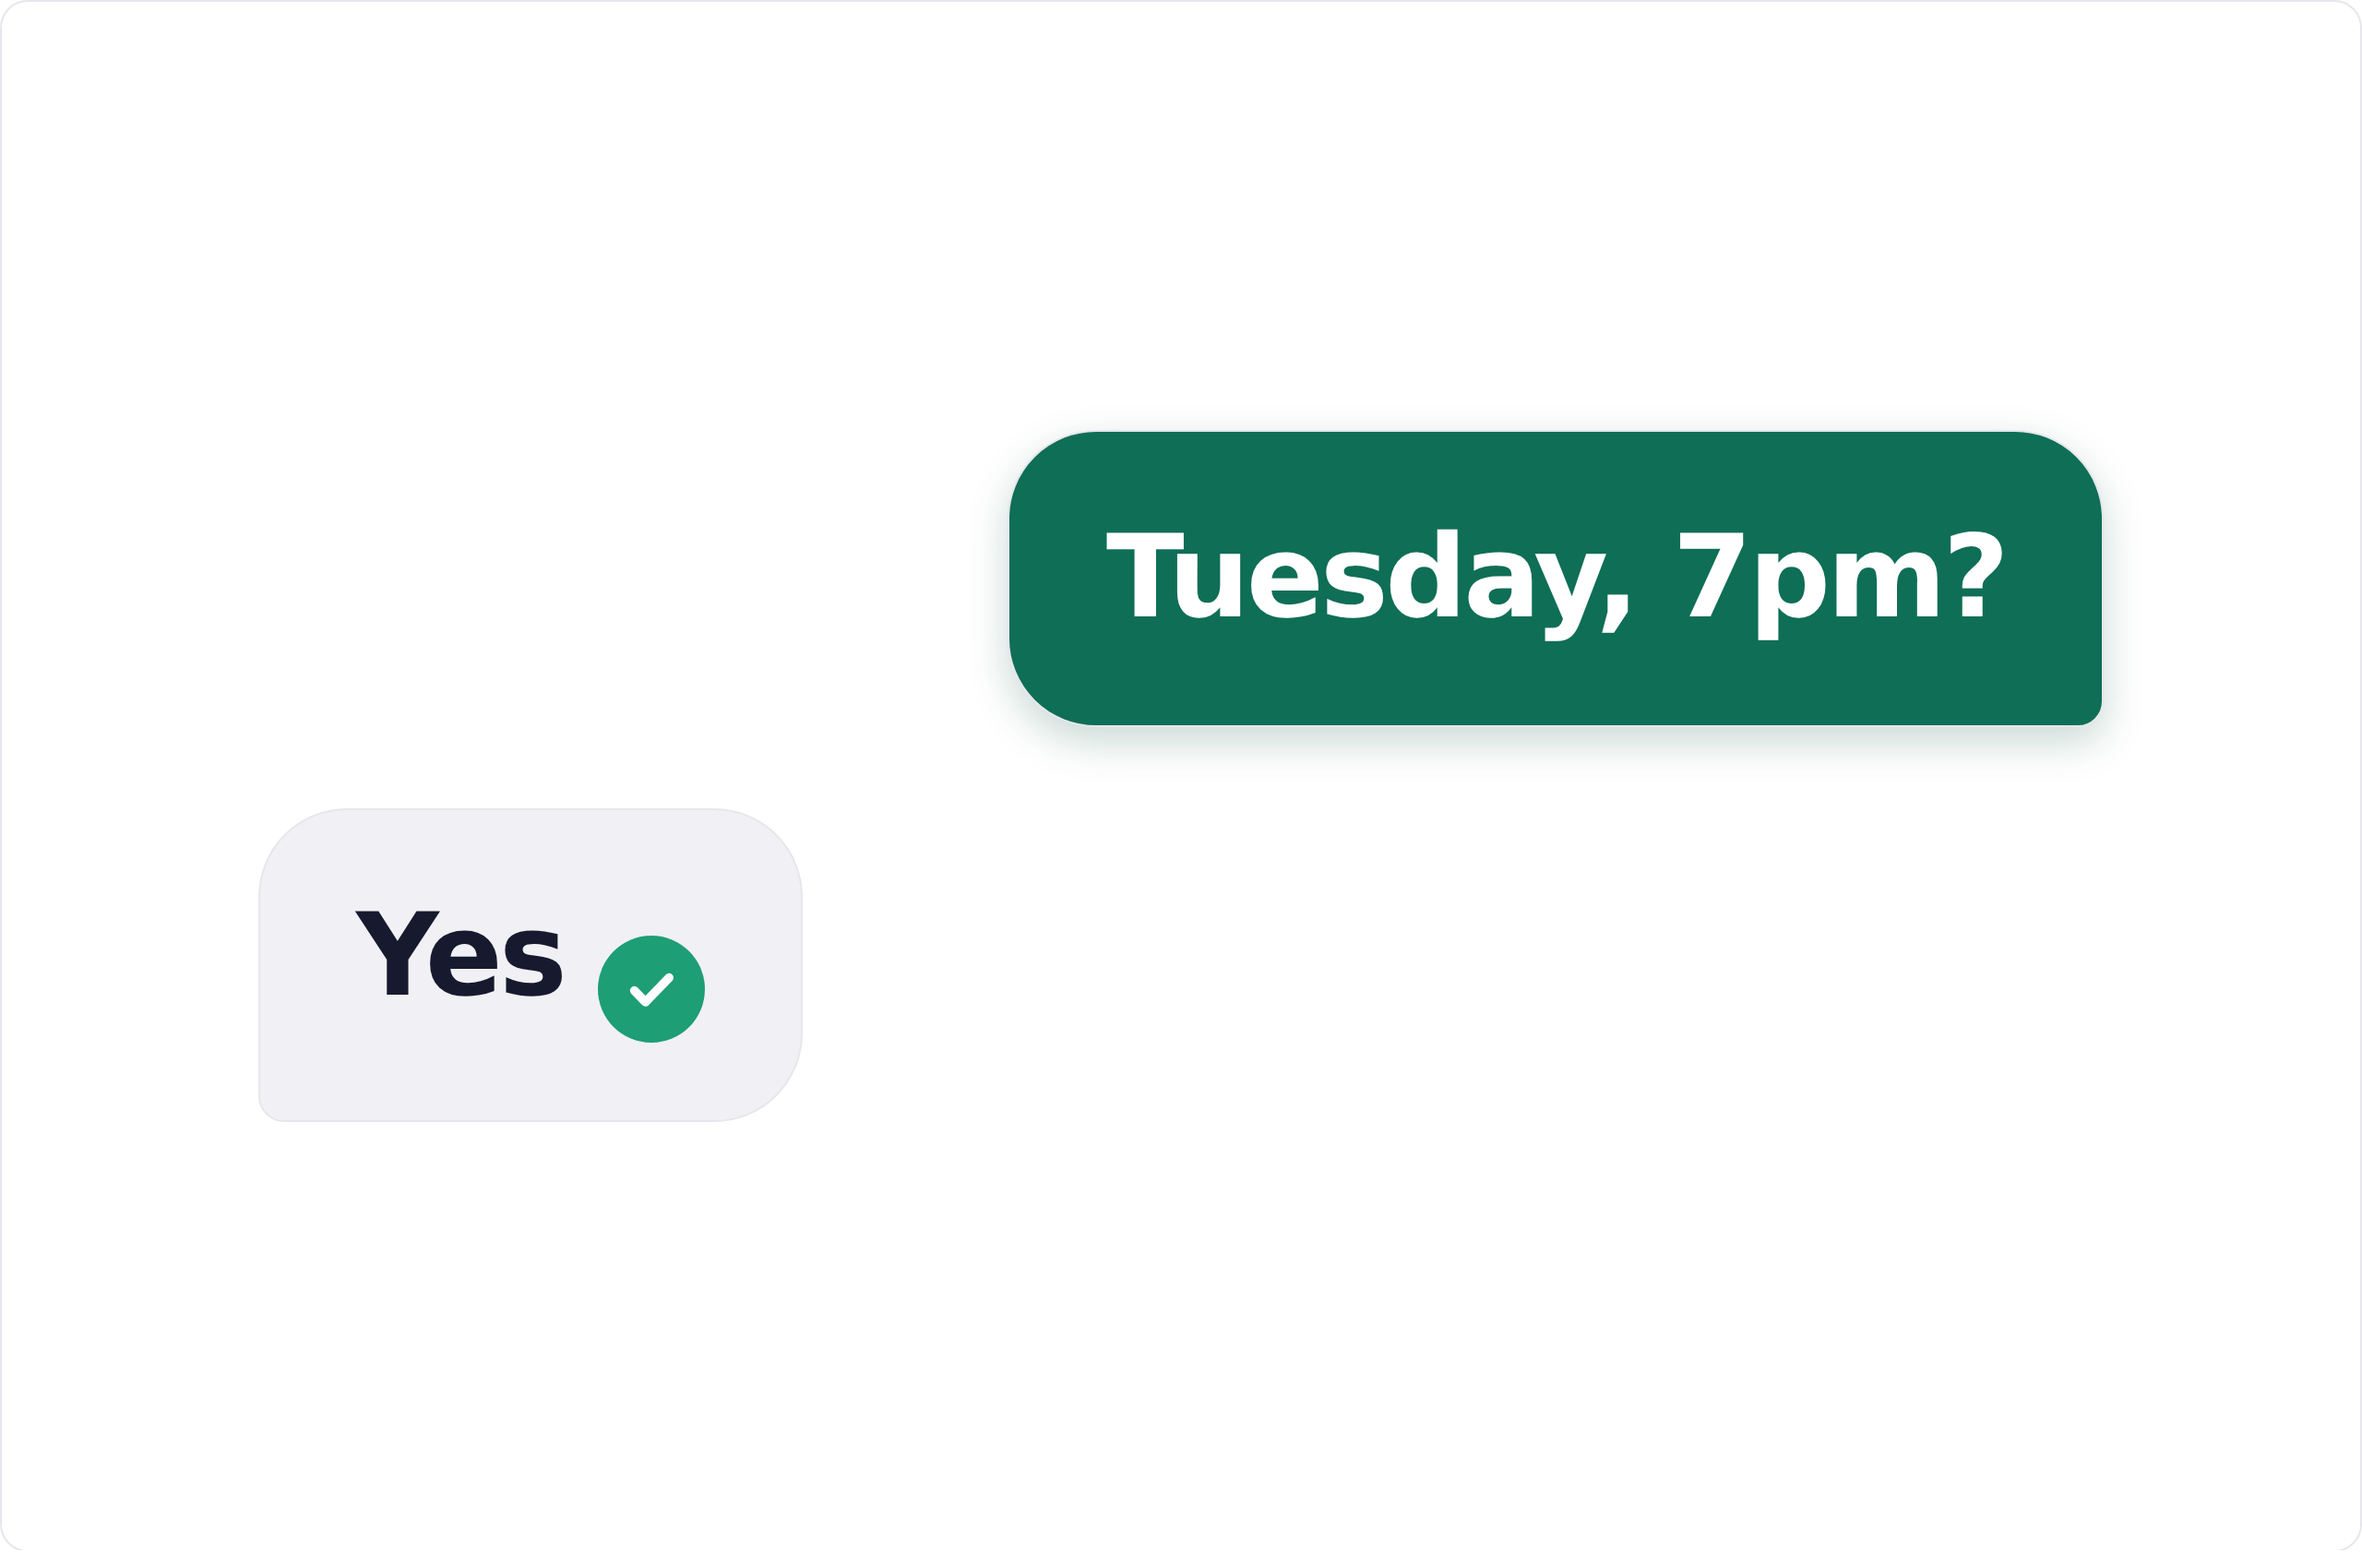
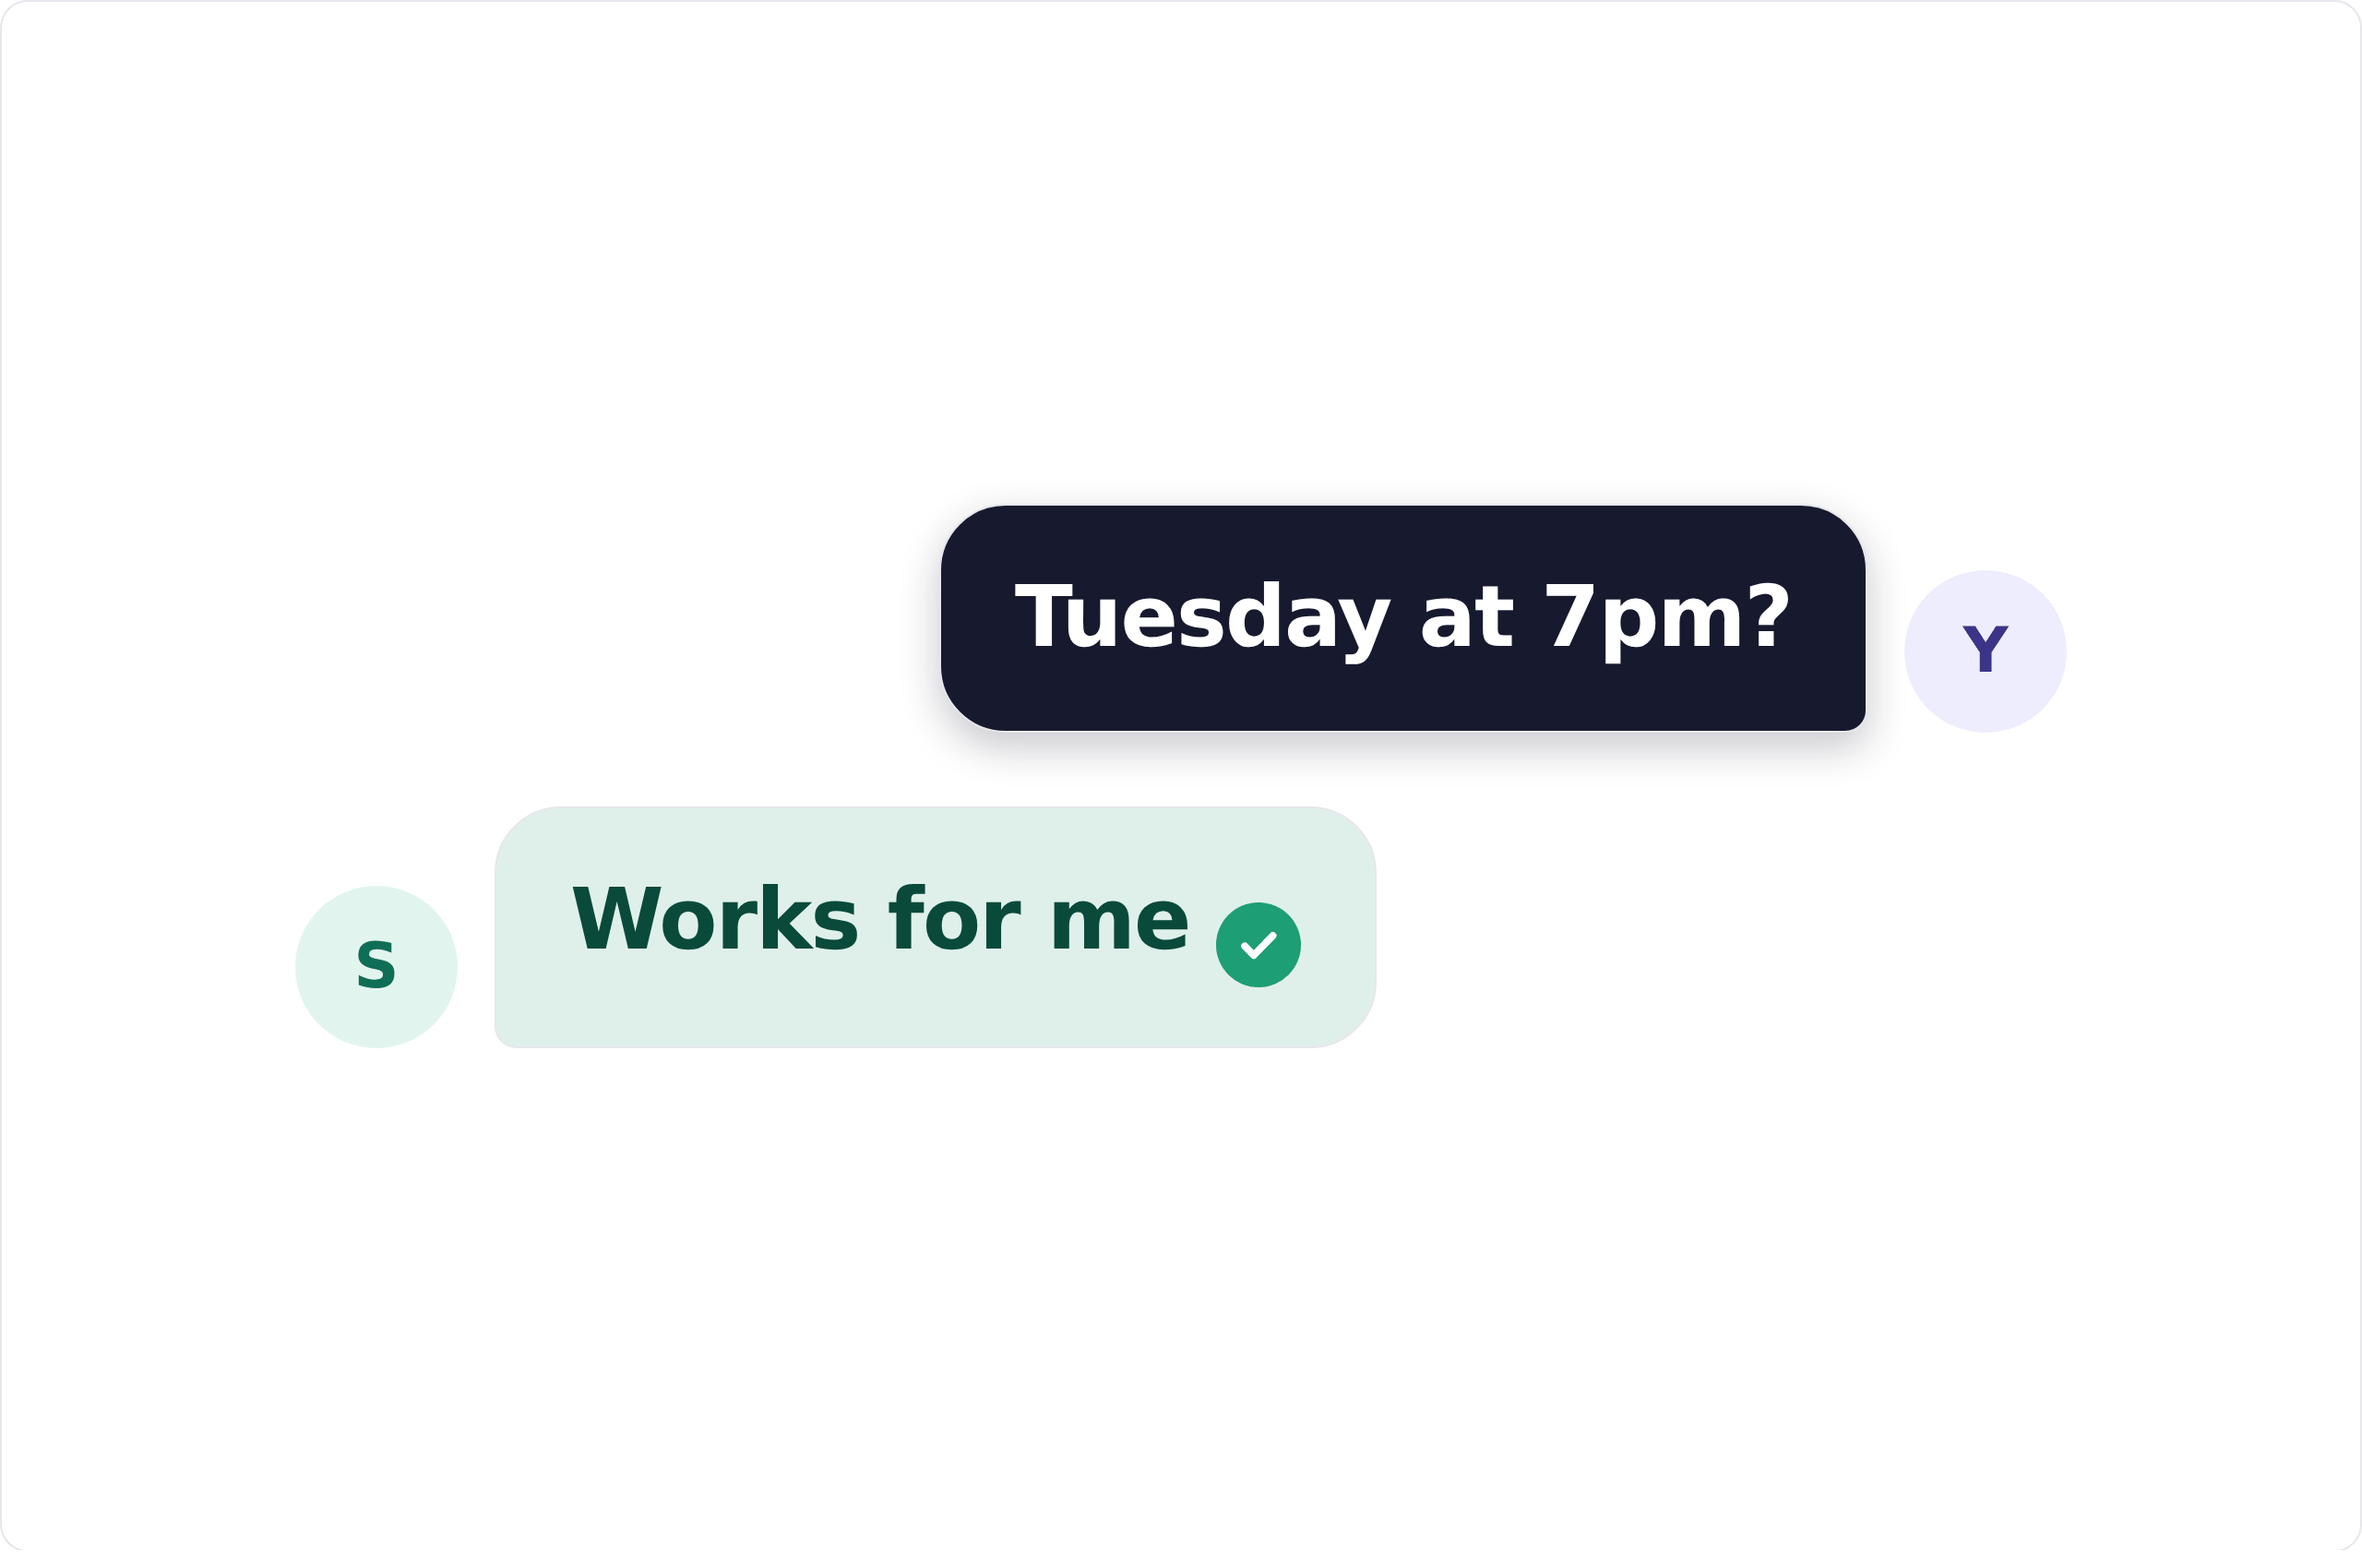
Five colourways for the exchange
Same layout, same two lines, same faces. Only the two bubbles change.

1 is green and grey, what it was. 2 drops the grey for a pale green, so the
card is the same family as the buttons in step one. 3 flips them, putting the
weight on the yes rather than the question, since the agreement is what the
step is about. 4 pairs the ink from the nav button with green, which is the
only one using two brand colours rather than one and a neutral. 5 takes the
fill out of both and leaves the tick as the only colour on the card.

Claude-Session: https://claude.ai/code/session_01YKC4UuyUEYgQuEBKY8hLuJ

Changed region(s): [[0.1562, 0.2782, 0.9062, 0.6801]]

diff --git a/assets/how-2-options.html b/assets/how-2-options.html
@@ -2,12 +2,12 @@
 <html lang="en">
 <head>
 <meta charset="utf-8">
-<title>Step two — the exchange, five ways</title>
+<title>Step two — the exchange, five colourways</title>
 <link rel="stylesheet" href="app.css">
 <style>
-  /* One idea — two people agreeing a time — drawn five ways. Read at about
-     403px in the card, so everything is near three times its final size and
-     nothing carries more than a handful of shapes. */
+  /* One layout — the exchange with a face on each bubble — in five
+     colourways. Read at about 403px in the card, so everything is near three
+     times its final size. */
   body{margin:0;background:#fff;font-family:var(--body)}
   .frame{width:1280px;height:841px;background:#fff;border:1px solid #E7E6EC;
     border-radius:15px;overflow:hidden;display:flex;flex-direction:column;margin:0 0 40px}
@@ -26,9 +26,36 @@
     font-size:34px;font-weight:800}
   .b{padding:32px 40px;border-radius:36px;font-size:46px;font-weight:600;letter-spacing:-.02em;
     line-height:1.25;max-width:660px}
-  .b.them{background:#F1F0F4;color:var(--ink);border-bottom-left-radius:12px}
-  .b.me{background:#0F6E56;color:#fff;border-bottom-right-radius:12px;
-    box-shadow:0 8px 22px rgba(8,80,65,.22)}
+  .b.them{border-bottom-left-radius:12px}
+  .b.me{border-bottom-right-radius:12px}
+
+  /* 1 — green and grey. What it is now: the question carries the brand, the
+     answer is neutral. */
+  #v-a .b.me{background:#0F6E56;color:#fff;box-shadow:0 8px 22px rgba(8,80,65,.22)}
+  #v-a .b.them{background:#F1F0F4;color:var(--ink)}
+
+  /* 2 — two greens. No grey anywhere, so the card belongs to the same family
+     as the buttons in step one and the tiles in step three. */
+  #v-b .b.me{background:#0F6E56;color:#fff;box-shadow:0 8px 22px rgba(8,80,65,.22)}
+  #v-b .b.them{background:#DFF0EA;color:#0A4A3B}
+
+  /* 3 — flipped. The agreement is the point of the step, so the yes is the
+     loud one and the question is quiet. */
+  #v-c .b.me{background:#E8E7EE;color:#3B3F58}
+  #v-c .b.them{background:#0F6E56;color:#fff;box-shadow:0 8px 22px rgba(8,80,65,.22)}
+  #v-c .tick{background:#fff}
+  #v-c .tick svg path{stroke:#0F6E56}
+
+  /* 4 — ink and green. Two brand colours rather than one: the ink is the
+     nav button, the green is everything else. */
+  #v-d .b.me{background:#171A2E;color:#fff;box-shadow:0 8px 22px rgba(23,26,46,.24)}
+  #v-d .b.them{background:#DFF0EA;color:#0A4A3B}
+
+  /* 5 — outline. Both bubbles white on white, and the only colour on the
+     card is the tick. */
+  #v-e .b.me{background:#fff;color:var(--ink);border:3px solid #0F6E56;
+    box-shadow:0 6px 18px rgba(8,80,65,.10)}
+  #v-e .b.them{background:#fff;color:var(--ink);border:3px solid #E7E6EC}
 
   /* ---------- 2: in a window ---------- */
   .win{width:100%;max-width:940px;border:2px solid #E7E6EC;border-radius:34px;overflow:hidden;
@@ -82,7 +109,6 @@
 </head>
 <body>
 
-<!-- ============ 1: with faces ============ -->
 <div class="frame" id="v-a"><div class="body">
   <div class="thread">
     <div class="line mine">
@@ -96,50 +122,55 @@
   </div>
 </div></div>
 
-<!-- ============ 2: in a window ============ -->
 <div class="frame" id="v-b"><div class="body">
-  <div class="win">
-    <div class="win-h">
-      <span class="av" style="background:#E1F5EE;color:#0F6E56">S</span>
-      <span class="n">Sandra<span>Learning Linux basics</span></span>
-    </div>
-    <div class="win-b">
+  <div class="thread">
+    <div class="line mine">
+      <span class="av" style="background:#EEEDFE;color:#3C3489">Y</span>
       <span class="b me">Tuesday at 7pm?</span>
+    </div>
+    <div class="line">
+      <span class="av" style="background:#E1F5EE;color:#0F6E56">S</span>
       <span class="b them">Works for me<span class="tick"><svg viewBox="0 0 16 16" fill="none"><path d="M3.4 8.4l3 3.1L12.8 4.9" stroke="#fff" stroke-width="2.4" stroke-linecap="round" stroke-linejoin="round"/></svg></span></span>
     </div>
   </div>
 </div></div>
 
-<!-- ============ 3: exchange, then the result ============ -->
 <div class="frame" id="v-c"><div class="body">
-  <div class="mini">
-    <span class="b me">Tuesday at 7pm?</span>
-    <span class="b them">Works for me</span>
-  </div>
-  <div class="out">
-    <span class="k"><svg viewBox="0 0 16 16" fill="none"><path d="M3.4 8.4l3 3.1L12.8 4.9" stroke="#fff" stroke-width="2.6" stroke-linecap="round" stroke-linejoin="round"/></svg></span>
-    <b>Tuesday, 7:00 PM</b>
-    <span>Booked</span>
+  <div class="thread">
+    <div class="line mine">
+      <span class="av" style="background:#EEEDFE;color:#3C3489">Y</span>
+      <span class="b me">Tuesday at 7pm?</span>
+    </div>
+    <div class="line">
+      <span class="av" style="background:#E1F5EE;color:#0F6E56">S</span>
+      <span class="b them">Works for me<span class="tick"><svg viewBox="0 0 16 16" fill="none"><path d="M3.4 8.4l3 3.1L12.8 4.9" stroke="#fff" stroke-width="2.4" stroke-linecap="round" stroke-linejoin="round"/></svg></span></span>
+    </div>
   </div>
 </div></div>
 
-<!-- ============ 4: two lines, nothing else ============ -->
 <div class="frame" id="v-d"><div class="body">
-  <div class="big">
-    <span class="b me">Tuesday, 7pm?</span>
-    <span class="b them">Yes<span class="tick"><svg viewBox="0 0 16 16" fill="none"><path d="M3.4 8.4l3 3.1L12.8 4.9" stroke="#fff" stroke-width="2.4" stroke-linecap="round" stroke-linejoin="round"/></svg></span></span>
+  <div class="thread">
+    <div class="line mine">
+      <span class="av" style="background:#EEEDFE;color:#3C3489">Y</span>
+      <span class="b me">Tuesday at 7pm?</span>
+    </div>
+    <div class="line">
+      <span class="av" style="background:#E1F5EE;color:#0F6E56">S</span>
+      <span class="b them">Works for me<span class="tick"><svg viewBox="0 0 16 16" fill="none"><path d="M3.4 8.4l3 3.1L12.8 4.9" stroke="#fff" stroke-width="2.4" stroke-linecap="round" stroke-linejoin="round"/></svg></span></span>
+    </div>
   </div>
 </div></div>
 
-<!-- ============ 5: the answer is the picture ============ -->
 <div class="frame" id="v-e"><div class="body">
-  <div class="quiet">
-    <span class="b me">Tuesday at 7pm?</span>
-    <span class="b them">Works for me</span>
-  </div>
-  <div class="hero-time">
-    <b>Tuesday <em>7:00 PM</em></b>
-    <span>Agreed by both of you</span>
+  <div class="thread">
+    <div class="line mine">
+      <span class="av" style="background:#EEEDFE;color:#3C3489">Y</span>
+      <span class="b me">Tuesday at 7pm?</span>
+    </div>
+    <div class="line">
+      <span class="av" style="background:#E1F5EE;color:#0F6E56">S</span>
+      <span class="b them">Works for me<span class="tick"><svg viewBox="0 0 16 16" fill="none"><path d="M3.4 8.4l3 3.1L12.8 4.9" stroke="#fff" stroke-width="2.4" stroke-linecap="round" stroke-linejoin="round"/></svg></span></span>
+    </div>
   </div>
 </div></div>
 
